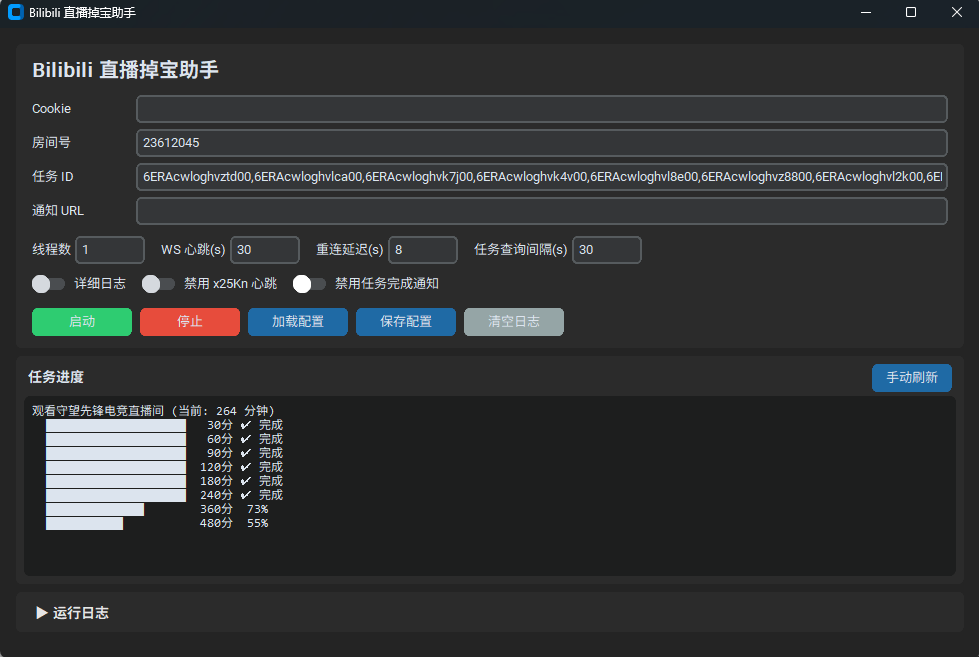
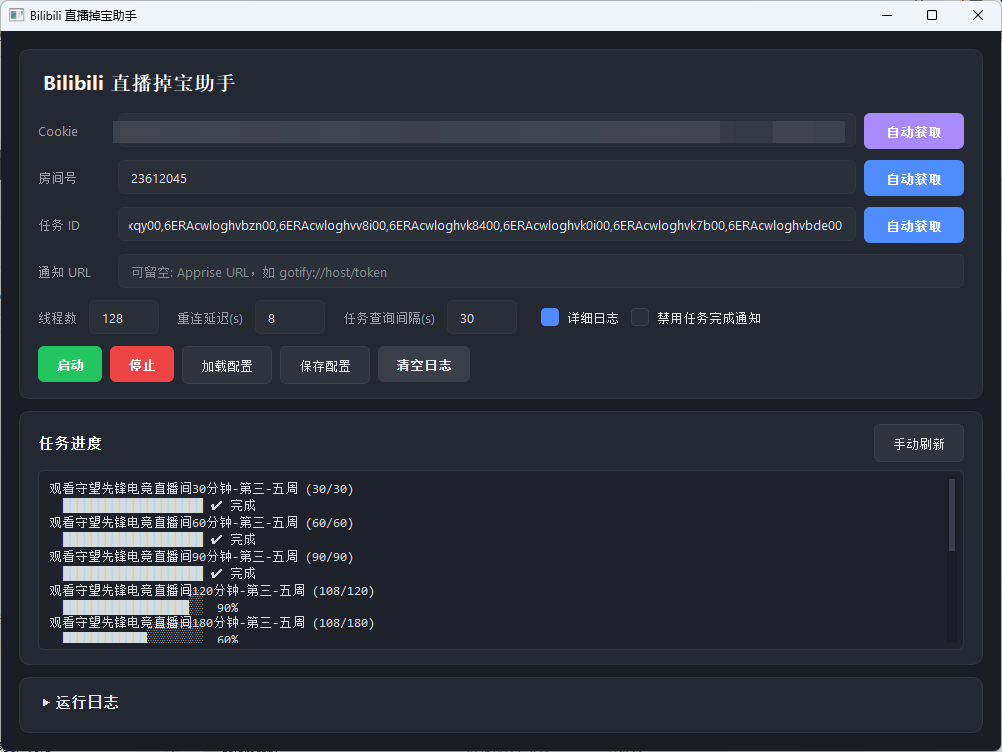
调整错峰间隔与自动获取按钮文案
- miner.py: session 错峰由 3s 降为 1s，依据 128 并发 bench 实测（0.5s 触发服务端风控，0.75s 打爆本地代理）
- gui.py: 自动获取房间号/任务 ID 对话框标题前加"无需登录，"，减少误解
- README.md: 自动获取步骤段尾补两空格，恢复 Markdown 换行
- img/image_5.png: 同步更新截图

diff --git a/bilibili_drops_miner/gui.py b/bilibili_drops_miner/gui.py
@@ -1104,7 +1104,7 @@ class MinerGUI(QMainWindow):
     def auto_fetch_room_id(self) -> None:
         ok = QMessageBox.question(
             self,
-            "自动获取房间号",
+            "无需登录，自动获取房间号",
             "点击确定后会打开浏览器，请在 2 分钟内进入目标直播间：\n\n"
             "例如 live.bilibili.com/23612045\n\n"
             "检测到有效房间号后浏览器会自动关闭。",
@@ -1126,7 +1126,7 @@ class MinerGUI(QMainWindow):
     def auto_fetch_task_ids(self) -> None:
         ok = QMessageBox.question(
             self,
-            "自动获取任务ID",
+            "无需登录，自动获取任务ID",
             "点击确定后会打开浏览器，请在 2 分钟内：\n\n"
             "打开有当前任务的直播间即可自动获取任务ID和房间号，\n"
             "或手动点击页面上的「刷新任务」按钮。\n\n"

diff --git a/bilibili_drops_miner/miner.py b/bilibili_drops_miner/miner.py
@@ -46,9 +46,9 @@ class BilibiliWatchTimeMiner:
             await client.close()
 
     async def _thread_loop(self, plan: SessionPlan, thread_index: int) -> None:
-        # Keep 3s stagger from legacy model; user-verified as the best interval.
+        # 1s stagger is the bench-verified floor under 128 threads: 0.5s triggers server throttle, 0.75s exhausts local proxy.
         if thread_index > 1 and await asyncio.to_thread(
-            self._stop_event.wait, (thread_index - 1) * 3
+            self._stop_event.wait, (thread_index - 1) * 1
         ):
             return
         if self._stop_event.is_set():

diff --git a/README.md b/README.md
@@ -37,7 +37,7 @@
 
 ### 房间号（必填）
 
-方式 1（推荐）：点击自动获取任务 ID 后进入直播间，房间号会自动回填。
+方式 1（推荐）：点击自动获取任务 ID 后进入直播间，房间号会自动回填。  
 方式 2（手动）：直播间 URL 中的数字部分即为房间号，例如 `https://live.bilibili.com/23612045` 中房间号为 `23612045`。
 
 
